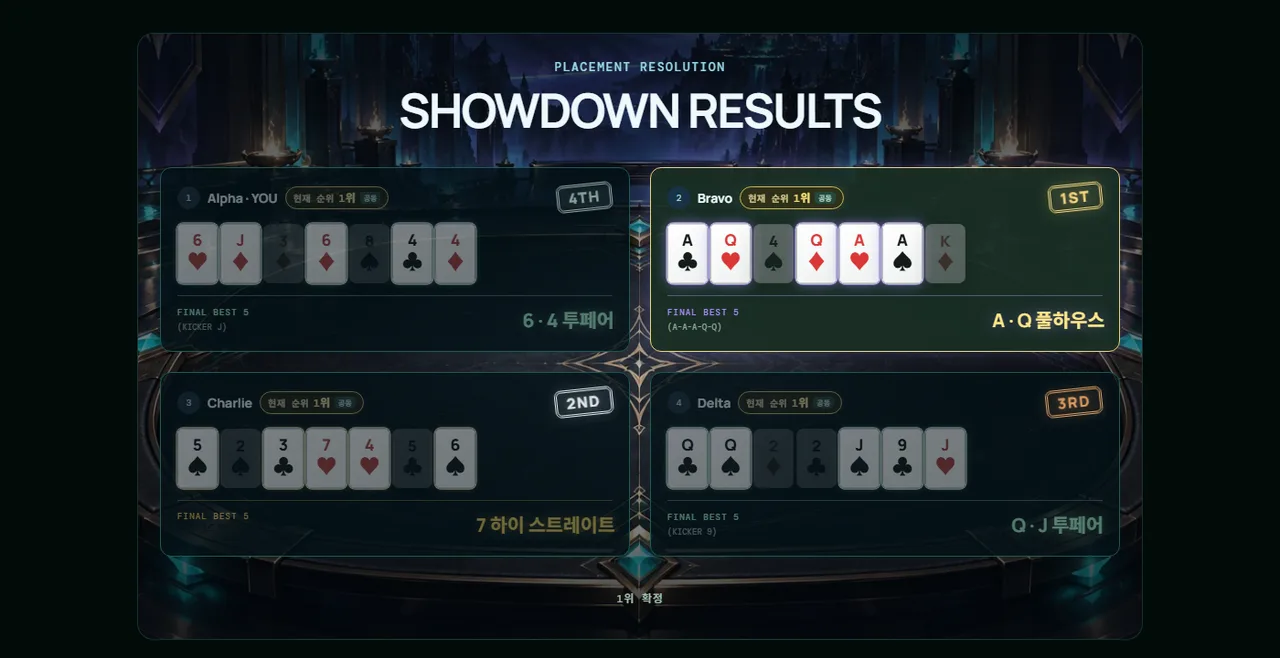
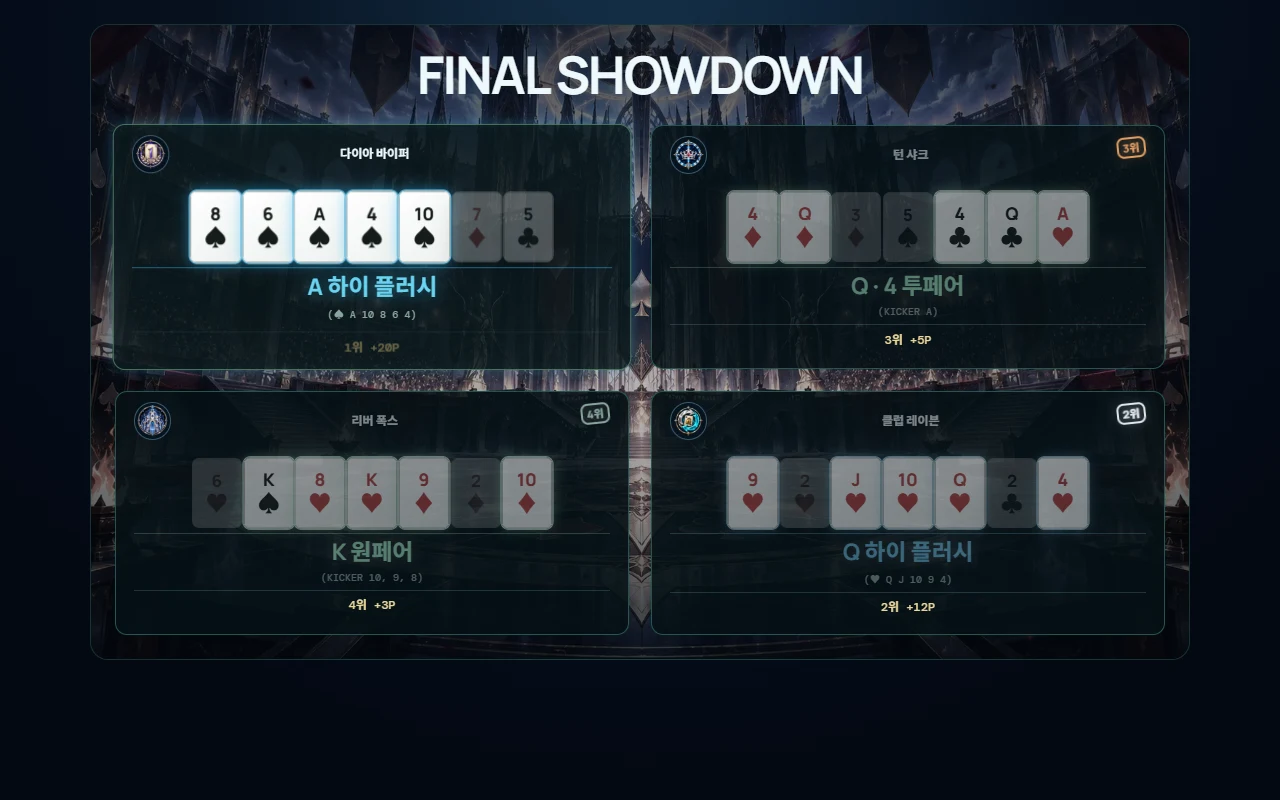
docs: refresh README and screenshots for the current game
- Root README: English support, in-game round titles, ability pick /
  draft reveal / 3.5s match setup timings, i18n·tutorial·admin folders,
  balance simulator usage, and the features shipped since (tutorial,
  made-hand sounds, win-chance preview, feedback inbox, match history).
- New screenshots captured from a real Korean single-player game:
  start screen, ability card, open draft, Run It Twice preview, R2
  showdown, final showdown and final standings.
- holto-chess/README.md: replace the stale prototype notes (broken link,
  old R2 flow) with a short developer guide to the app layout.

diff --git a/README.md b/README.md
@@ -13,6 +13,7 @@ PORENA는 좋은 카드를 기다리는 포커가 아닙니다. 8명이 **하나
 > **상태:** 온라인 플레이 가능한 개발 프로토타입
 > **인원:** 실제 사용자 2~8명 · 빈 좌석은 AI가 채워 항상 8인으로 진행
 > **서버:** Cloudflare Workers + Durable Objects + WebSocket
+> **언어:** 한국어 · English (브라우저 언어로 자동 선택, 환경 설정에서 변경)
 
 게임 안의 **게임 설명**은 두 갈래로 나뉩니다. 포커가 처음이라면 *초보자 가이드*, 규칙과 수치를 바로 찾고 싶다면 *규칙서*를 여세요. 아래 README도 같은 순서입니다.
 
@@ -33,10 +34,10 @@ R1 8명 ─ R2 8명 ─ R3 6명 ─ R4 4명 ─ R5 최종 순위
 
 | 라운드 | 한 줄 설명 |
 | --- | --- |
-| **R1 TWO HAND** | 내 카드 2장 + 보드 5장. 익숙한 홀덤으로 3경기 |
+| **R1 CLASSIC HOLD'EM** | 내 카드 2장 + 보드 5장. 익숙한 홀덤으로 3경기 |
 | **R2 RUN IT TWICE** | 드래프트로 3장을 만들고, 중심 카드 1장을 두 판에 모두 사용 |
-| **R3 OMAHA** | 4장을 갖지만 반드시 내 카드 2장 + 보드 3장. 탈락 시작 |
-| **R4 BEST FIVE** | 내 카드 5장 + 보드 5장. 승자조 / 생존조로 나뉨 |
+| **R3 OMAHA SWISS** | 4장을 갖지만 반드시 내 카드 2장 + 보드 3장. 탈락 시작 |
+| **R4 BEST FIVE OF TEN** | 내 카드 5장 + 보드 5장. 승자조 / 생존조로 나뉨 |
 | **R5 THE LAST HAND** | 보드 없이 내 카드 7장 중 BEST 5. 남은 4명의 결승 |
 
 ```text
@@ -170,29 +171,49 @@ Final Score = 누적 Point + R5 Hand Score + floor(남은 BB / 10)
 
 | 단계 | 제한 시간 | 동작 |
 | --- | ---: | --- |
+| 어빌리티 선택 순서 공개 | 3초 | 주사위로 선택 순서를 정해 모든 좌석에 공개 |
+| 어빌리티 선택 | 플레이어당 12초 | 시간 초과 시 남은 카드 중 하나를 자동 선택 |
+| 어빌리티 공개 확인 | 30초 | 모두 준비하면 바로 상점으로 이동 |
 | 상점 | 60초 | 미완료 좌석은 시간이 끝나면 자동 준비 |
 | Draft Order · Deal-In | 3초 | 모든 좌석이 같은 카드 배치 연출을 본 뒤 선택 시작 |
 | 공개 드래프트 선택 | 플레이어당 20초 | AI 선택은 1.8초 간격 · 시간 초과 시 자동 선택 |
+| 드래프트 결과 공개 | 3.5초 | 마지막 선택 뒤 모든 픽을 보여주고 다음 단계로 |
 | R2 RUN 카드 배치 | 30초 | 미완성 배치는 자동 완성 후 확정 |
-| 쇼다운 매치업 동기화 | 3초 | 플레이어 구도를 표시하며 상대와 화면을 동기화한 뒤 자동 시작 |
+| 쇼다운 매치업 동기화 | 3.5초 | 플레이어 구도와 예상 승률을 표시하며 상대와 화면을 동기화한 뒤 자동 시작 |
 | R4 브래킷 확인 | 10초 | 승자조와 생존조 구성을 확인 |
 | 라운드 결과 | 30초 | 결과 확인 후 다음 단계로 이동 |
 | 다음 라운드 · 생존 타이브레이크 준비 | 30초 | 미응답 좌석은 서버가 자동 처리 |
-| 쇼다운 시네마틱 | 가변 | 카드 공개·BEST 5·결과·보상 연출, 매치 사이 1.5초 유지 |
+| 쇼다운 시네마틱 | 가변 | 카드 공개·BEST 5·결과·보상 연출. 매치 사이에는 결과를 3초 보여준 뒤 다음 매치업(3.5초)으로 이동 |
 
-R4의 실제 순서는 `Draft Order 3초 → 순차 드래프트(각 20초, AI 1.8초) → 상점 60초 → 1차전 준비 3초 → 1차전 시네마틱 → 브래킷 확인 10초 → 2차전 준비 3초 → 승자조·생존조 시네마틱 → 결과 30초 → 다음 라운드`입니다.
+R4의 실제 순서는 `Draft Order 3초 → 순차 드래프트(각 20초, AI 1.8초) → 드래프트 결과 3.5초 → 상점 60초 → 1차전 준비 3.5초 → 1차전 시네마틱 → 브래킷 확인 10초 → 2차전 준비 3.5초 → 승자조·생존조 시네마틱 → 결과 30초 → 다음 라운드`입니다.
 
 ---
 
 ## Screenshots
 
-**Showdown** — 라운드마다 다른 아레나 배경 위에서 카드가 뒤집히고 BEST 5가 빛납니다.
+**Ability Draft** — 게임 시작 전 뒷면 카드 12장 중 1장을 골라 나만의 어빌리티를 받습니다. 카드를 누르면 뒤집혀 상세 규칙이 보입니다.
+
+![Ability Draft](holto-chess/docs/screenshots/ability-card.webp)
+
+**Open Draft** — 공개된 카드를 승점 낮은 순서대로 한 장씩 가져갑니다. 이미 누가 가져간 카드인지 모두에게 보입니다.
+
+![Open Draft](holto-chess/docs/screenshots/open-draft.webp)
+
+**Run It Twice** — 쇼다운 직전, 두 RUN의 카드 구성과 RUN별 예상 승률을 보여줍니다.
+
+![Run It Twice](holto-chess/docs/screenshots/run-it-twice-prep.webp)
+
+**Showdown** — 보드가 한 장씩 열리고 BEST 5가 빛나며, RUN마다 승점과 BB가 정산됩니다.
 
 ![Showdown](holto-chess/docs/screenshots/showdown-r2.webp)
 
-**Final Table** — 4인 최종전. 7장을 3 → 2 → 2로 공개하고 순위 도장이 찍힙니다.
+**Final Showdown** — 커뮤니티 보드 없이 남은 4명이 7장 중 BEST 5로 마지막 순위를 가립니다.
 
-![Final Table](holto-chess/docs/screenshots/final-table.webp)
+![Final Showdown](holto-chess/docs/screenshots/final-table.webp)
+
+**Final Standings** — 누적 승점 + 족보 점수 + 스택 점수로 1~8위를 확정합니다.
+
+![Final Standings](holto-chess/docs/screenshots/final-standings.webp)
 
 ---
 
@@ -238,7 +259,10 @@ holto-chess/
 │  ├─ core/     # 카드와 포커 평가기 (족보 · BEST 5)
 │  ├─ game/     # 게임 규칙, 방 상태, 밸런스 수치, 봇
 │  ├─ shared/   # 클라이언트·서버 공용 프로토콜과 연출 타임라인
-│  └─ ui/       # React 화면과 쇼다운 시네마틱
+│  ├─ i18n/     # 한국어 · 영어 문구
+│  ├─ tutorial/ # 체험 · 길라잡이 5장
+│  ├─ admin/    # 제보 · 문의 관리자 수신함
+│  └─ ui/       # React 화면, 쇼다운 시네마틱, 게임 설명
 ├─ worker/      # Cloudflare Worker + Durable Object
 ├─ tools/       # 밸런스 시뮬레이터, 운영 스크립트
 └─ public/      # 배경 아트 등 정적 에셋
@@ -262,7 +286,20 @@ npm run test:workers
 npm run deploy
 ```
 
-저장소 루트의 명령은 모두 `holto-chess/`로 위임됩니다.
+저장소 루트의 명령은 모두 `holto-chess/`로 위임됩니다. 앱 구조와 개발 원칙은 [holto-chess/README.md](holto-chess/README.md)에 있습니다.
+
+### 밸런스 시뮬레이터
+
+규칙을 다시 구현하지 않고 실제 게임 엔진으로 8인 게임을 끝까지 반복 실행해, 정책·좌석·드래프트 순번·카드·경제·점수 구성·어빌리티별 결과를 신뢰구간과 함께 집계합니다.
+
+```bash
+cd holto-chess
+node tools/balance-simulator/run.mjs --games 200 --jobs 4                      # 현행 규칙
+node tools/balance-simulator/run.mjs --games 200 --set rankPrices.14=15 --compare # 수치 변경 전후 비교
+node tools/balance-simulator/run.mjs --games 2000 --abilities --policies ABILITY_AWARE --rows --jobs 8
+```
+
+자세한 옵션은 [tools/balance-simulator/README.md](holto-chess/tools/balance-simulator/README.md)를 보세요.
 
 ---
 
@@ -279,11 +316,18 @@ npm run deploy
 - [x] 탈락자 관전 · 재대결
 - [x] 어빌리티 12종 · 게임 시작 전 어빌리티 드래프트
 - [x] 게임 설명: 초보자 가이드 / 규칙서 분리
+- [x] 체험 · 길라잡이 (5장, 라운드별 연습)
+- [x] 한국어 · 영어 지원
+- [x] 메이드 족보 효과음 · 음량 설정
+- [x] 쇼다운 전 예상 승률 표시
+- [x] 제보 · 문의 양식과 관리자 수신함
+- [x] 멀티플레이 대전 기록을 기기에 저장 (최근 20경기)
+- [x] 실제 엔진 기반 밸런스 시뮬레이터 · 어빌리티별 승률 측정
 
 ### In Progress
 - [ ] 밸런스 조정
 - [ ] AI 전략 개선
-- [ ] 사운드 / BGM
+- [ ] BGM
 - [ ] 랭킹 · 계정 시스템 (미구현)
 - [ ] Steam 빌드
 
@@ -304,7 +348,7 @@ PORENA는 텍사스 홀덤을 그대로 복제하지 않습니다.
 
 - 밸런스 시뮬레이션 기반 수치 조정
 - AI 전략 고도화
-- 사운드 디자인
+- BGM · 사운드 디자인 확장
 - 계정 · 랭킹 시스템
 - Steam 빌드
 

diff --git a/holto-chess/README.md b/holto-chess/README.md
@@ -1,55 +1,45 @@
-# PORENA Prototype
+# PORENA — app
 
-52장 싱글 덱 소유 풀에서 카드를 사고팔며 R1부터 R5까지 생존·점수를 겨루는 독립 웹 프로토타입입니다. 기존 Hold'em 프로젝트를 런타임 의존성으로 사용하지 않습니다.
+게임 소개·규칙서는 [저장소 README](../README.md)에 있습니다. 이 문서는 `holto-chess/` 앱을 실행하고 고치는 개발자를 위한 안내입니다.
 
 ## 실행
-
-현재 Cloudflare Workers + Static Assets + SQLite-backed GameRoom Durable Object 기반의 온라인 개발 모드를 포함합니다. 구현 내역, 검증, 사용자 설정 및 배포 절차는 [Cloudflare 구현 보고서](./CLOUDFLARE_IMPLEMENTATION.md)를 참조하세요.
 
 ```bash
 npm ci
 npm run dev
 ```
 
+Cloudflare 개발 런타임(Workers + Durable Objects)이 함께 뜹니다. 같은 주소를 탭 두 개에서 열면 멀티플레이를 시험할 수 있고, 개발 서버에서는 화면 오른쪽 아래 버튼으로 싱글/멀티를 바로 전환할 수 있습니다.
+
 검증:
 
 ```bash
-npm test
-npm run test:workers
-npm run build
+npm test               # 게임·UI 단위 테스트
+npm run test:workers   # Worker / Durable Object 테스트
 npm run lint
+npm run build
 ```
 
-## 조작
+배포: `npx wrangler login` → `npm run deploy`. 운영 절차와 배포 기록은 [OPERATIONS.md](./OPERATIONS.md)를 따릅니다.
 
-카드 부족 시 타임아웃 몰수패 및 R4 공동 2위 각 3P 정책은 [현재 규칙](../README.md#shared-52-card-pool) 앞의 라운드 승점/몰수패 설명을 따릅니다. 카드가 없어도 게임은 진행하고, 몰수패에는 승점·BB 보상이 없습니다. 진출자 전원이 몰수패인 경우 하이카드 추첨은 진출자만 정합니다.
+## 코드 구조
 
-- 카드 마켓의 가격이 표시된 구매 버튼으로 카드를 구매합니다.
-- 내 카드의 `판매` 영역을 눌러 판매합니다.
-- 카드 보유 한도를 채운 뒤 하단 진행 버튼으로 쇼다운합니다.
-- R2에서는 보유 3장을 대표 카드 1장과 RUN별 보조 카드 2장으로 배치합니다.
-- R2/R4 종료 뒤 다음 라운드로 진행합니다.
-- 상대 플레이어는 같은 공용 카드풀과 경제 규칙 안에서 자동으로 운영됩니다.
+| 경로 | 역할 |
+| --- | --- |
+| `src/core/poker` | 카드·족보 평가·BEST 5·Omaha (게임 규칙과 무관한 순수 로직) |
+| `src/game` | PORENA 규칙: 카드 풀, 상점, 드래프트, 경제, 매칭, 탈락, 어빌리티, 방 상태(`room.ts`), 봇 |
+| `src/game/config.ts` | 가격·승점·BB·족보 점수 등 밸런스 수치의 단일 출처 |
+| `src/shared` | 클라이언트·서버 공용 프로토콜, 제한 시간, 연출 타임라인 |
+| `src/ui` | React 화면, 쇼다운 시네마틱, 게임 설명(초보자 가이드·규칙서) |
+| `src/tutorial` | 체험 · 길라잡이 5장 |
+| `src/i18n` | 한국어(`ko-KR`)·영어(`en-US`) 문구. 두 파일의 키는 항상 같아야 합니다 |
+| `src/admin` | 제보·문의 관리자 수신함 |
+| `worker/` | Cloudflare Worker와 방 하나당 하나의 `GameRoom` Durable Object |
+| `tools/balance-simulator` | 엔진을 그대로 돌리는 밸런스 시뮬레이터 ([사용법](./tools/balance-simulator/README.md)) |
 
-## 매치별 Community Board
+## 원칙
 
-각 쇼다운은 독립된 카드 유니버스를 사용합니다. 일반 52장 덱에서 해당 encounter 참가자들이 현재 소유한 모든 카드를 제외한 뒤 보드를 생성합니다. 이 임시 덱은 구매·예약·소유 상태를 변경하지 않습니다.
-
-Run It Twice의 BOARD 1과 BOARD 2는 하나의 encounter 덱에서 연속 10장을 뽑으므로 서로 겹치지 않습니다. 다른 매치끼리는 독립된 덱을 사용하므로 같은 카드가 서로의 보드에 나타날 수 있습니다.
-
-## 경계
-
-- `src/core/poker`: 특정 게임 모드와 무관한 카드·족보·BEST 5·Omaha 순수 로직
-- `src/game`: PORENA 전용 카드풀, 상점, 경제, 매칭, 탈락, 라운드 상태
-- `src/ui`: 모바일 우선 카드·상점·다인 쇼다운 표현
-
-ONLINE에서는 인간 2~8명이 입장하며 빈 좌석은 AI로 채워 기존 8인 규칙을 유지합니다. GameRoom이 상태를 소유하고 각 사용자에게 PlayerView만 보냅니다. 상점 구성·단계 진행은 서버 타이머와 준비 장벽으로 동기화하고, 이탈 좌석은 AI가 이어서 진행합니다. LOCAL / DEV simulation은 기존 한 기기 테스트 모드입니다. 계정·영구 랭크·최종 밸런스 인증은 포함하지 않습니다.
-
-## 온라인 사용
-
-1. `npm run dev`로 Cloudflare 개발 런타임을 실행합니다.
-2. 새 탭 두 개에서 같은 주소를 엽니다. 첫 탭에서 Create Room, 다음 탭에서 방 코드를 입력하고 Join Room을 누릅니다.
-3. 양쪽 READY 후 개인 상점에서 구성하고 구성 확정을 누릅니다. R2는 출전 2장을 먼저 저장합니다.
-4. 이후 생존 플레이어들이 확인을 누르면 다음 단계로 진행합니다.
-
-배포: `npx wrangler login` → `npm run deploy`. 기존 동일 이름 Worker와 대상 계정을 먼저 확인하세요. 현재 저장소에는 credential이 필요하지 않습니다.
+- 서버가 게임 상태의 유일한 기준입니다. 클라이언트는 행동을 요청하고 받은 `PlayerView`만 그립니다.
+- 상대의 홀카드·상점은 쇼다운으로 공개되기 전까지 payload에 넣지 않습니다.
+- 각 쇼다운의 보드는 그 매치 참가자의 보유 카드를 뺀 별도 덱에서 뽑습니다. Run It Twice의 두 보드는 같은 덱에서 연속으로 뽑아 겹치지 않습니다.
+- 화면 문구는 `src/i18n/locales`에만 둡니다. 엔진이 저장하는 좌석 이름(AI 이름)은 화면에서 현재 언어로 바꿔 표시합니다(`src/ui/botNames.ts`).
